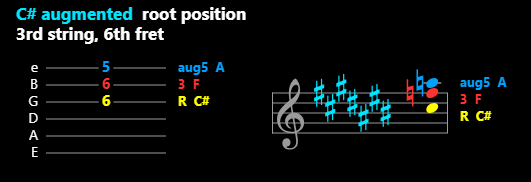
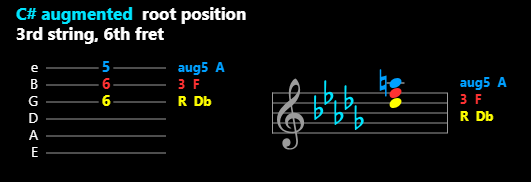
Apply enharmonicNormalization from key_signatures.json for key sig lookups
Before looking up a key signature, normalize the root via the
enharmonicNormalization map (e.g. C# major → Db major uses 5 flats
instead of 7 sharps, A# minor → Bb minor uses Db major/5 flats).

Changed region(s): [[0.5725, 0.3846, 0.8437, 0.7143], [0.8738, 0.6044, 0.9341, 0.6868], [0.3616, 0.522, 0.4218, 0.6044]]

diff --git a/scripts/chord_template.html b/scripts/chord_template.html
@@ -127,6 +127,18 @@ function extractQuality(name) {
 
 function getKeySigInfo(root, quality) {
   const sigs = window.__keySignatures || [];
+  const enharmonic = window.__enharmonicNormalization || {};
+
+  // Normalize via enharmonicNormalization (e.g. "C# major" → "Db major")
+  const qualityWord = quality === 'Augmented' ? 'major'
+    : quality === 'Diminished' ? 'minor'
+    : quality.toLowerCase();
+  const lookupKey = `${root} ${qualityWord}`;
+  if (enharmonic[lookupKey]) {
+    const parts = enharmonic[lookupKey].split(' ');
+    root = parts[0];
+  }
+
   let entry;
   if (quality === 'Major' || quality === 'Augmented') {
     entry = sigs.find(e => e.major === root);

diff --git a/scripts/guitar-chord.js b/scripts/guitar-chord.js
@@ -51,7 +51,10 @@ async function main() {
 
   // Pass key signatures data to the page
   const keySigs = JSON.parse(fs.readFileSync(KEY_SIGS_PATH, 'utf8'));
-  await page.evaluate((ks) => { window.__keySignatures = ks.keySignatures; }, keySigs);
+  await page.evaluate((ks) => {
+    window.__keySignatures = ks.keySignatures;
+    window.__enharmonicNormalization = ks.enharmonicNormalization || {};
+  }, keySigs);
 
   for (let i = 0; i < missing.length; i++) {
     const triad = missing[i];
